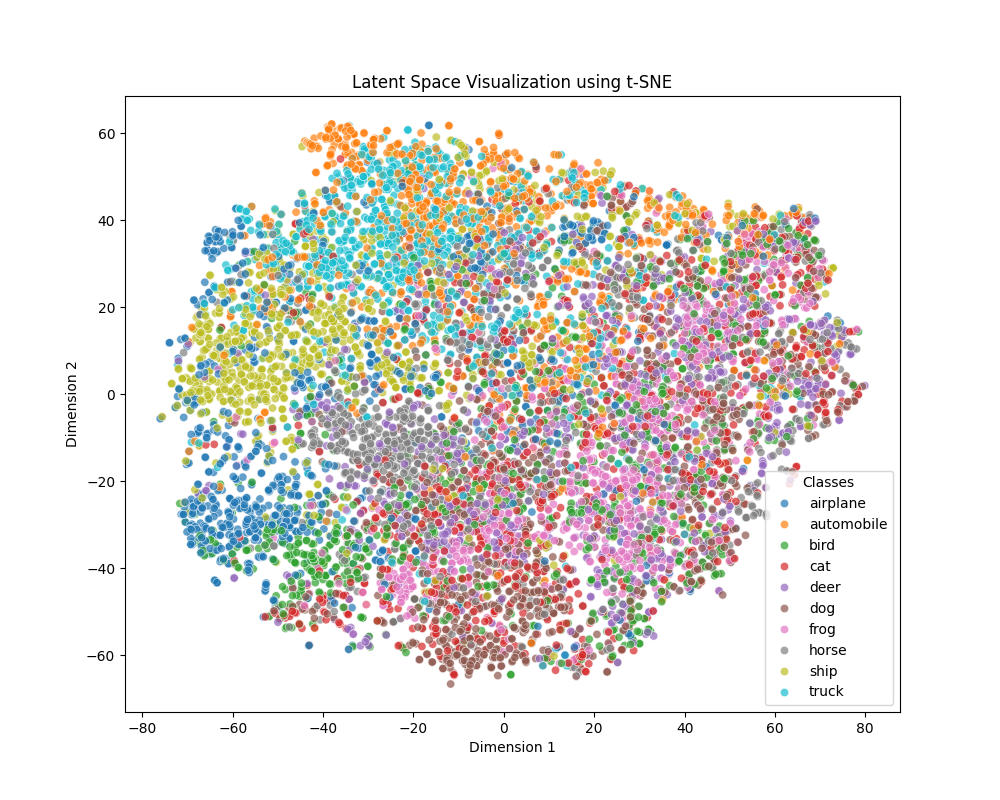
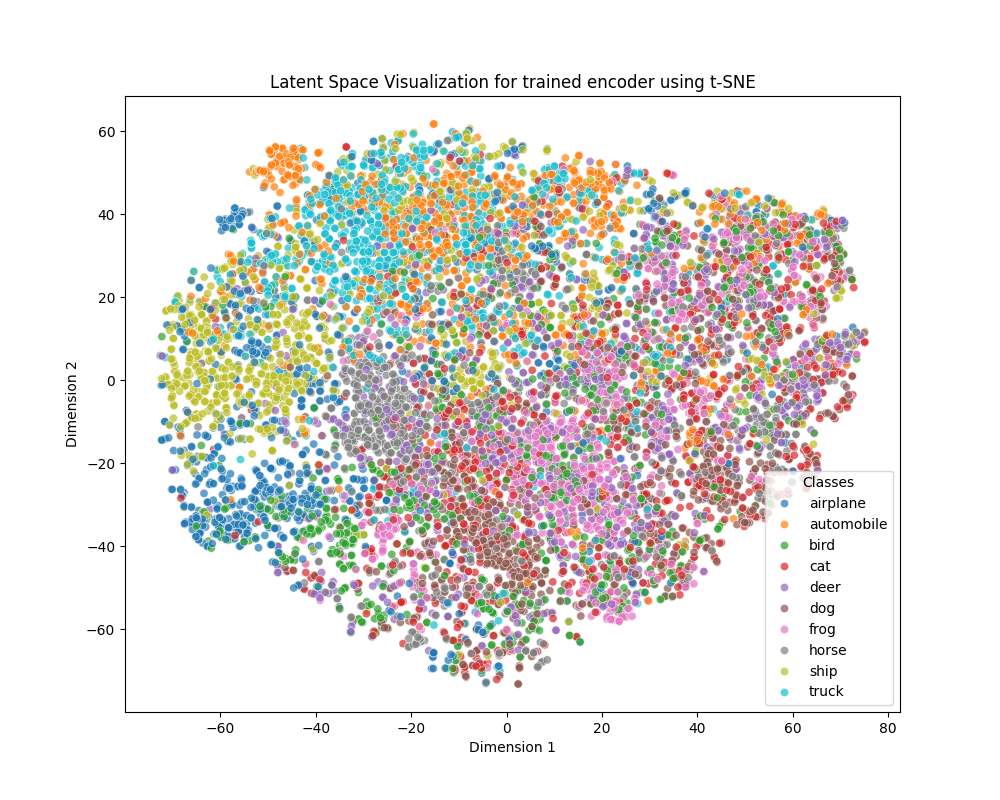
[CODE] - New tries

diff --git a/latent_space_vis.py b/latent_space_vis.py
@@ -39,7 +39,7 @@ def visualize_latent_space(model_checkpoint, base_model, out_dim, data_loader, d
     # Plotting
     plt.figure(figsize=(10, 8))
     sns.scatterplot(x=features_2d[:, 0], y=features_2d[:, 1], hue=label_names, hue_order=CLASS_NAMES, palette='tab10', legend='full', alpha=0.7)
-    plt.title('Latent Space Visualization using t-SNE')
+    plt.title('Latent Space Visualization for trained encoder using t-SNE')
     plt.xlabel('Dimension 1')
     plt.ylabel('Dimension 2')
     plt.legend(title='Classes')
@@ -50,8 +50,8 @@ def visualize_latent_space(model_checkpoint, base_model, out_dim, data_loader, d
 
 if __name__ == "__main__":
     # Define parameters
-    model_checkpoint_path = f'runs/checkpoint_4LP/initial_tocho_02.pth.tar' # Path to the trained model checkpoint
-    figure_name = "initial_TSNE_resnet50_tocho_02"  # Name for the saved figure
+    model_checkpoint_path = f'runs/checkpoint_4LP/final_tocho_02.pth.tar' # Path to the trained model checkpoint
+    figure_name = "final_TSNE_resnet50_tocho_02"  # Name for the saved figure
     base_model = 'resnet50'
     out_dim = 128
     batch_size = 256

diff --git a/run_lp.py b/run_lp.py
@@ -103,7 +103,7 @@ def main():
 
     # model checkpoint without training  
     # checkpoint_path = f'runs/checkpoint_4LP/initial_checkpoint_feb04_1834.pth.tar'
-    checkpoint_path = f'runs/checkpoint_4LP/data_aug_random_erasing.pth.tar'
+    checkpoint_path = f'runs/checkpoint_4LP/data_aug_random_erasing_02.pth.tar'
     
     # model checkpoint with training
     #checkpoint_path = f'runs/checkpoint_4LP/final_checkpoint_resnet50_01.pth.tar'
